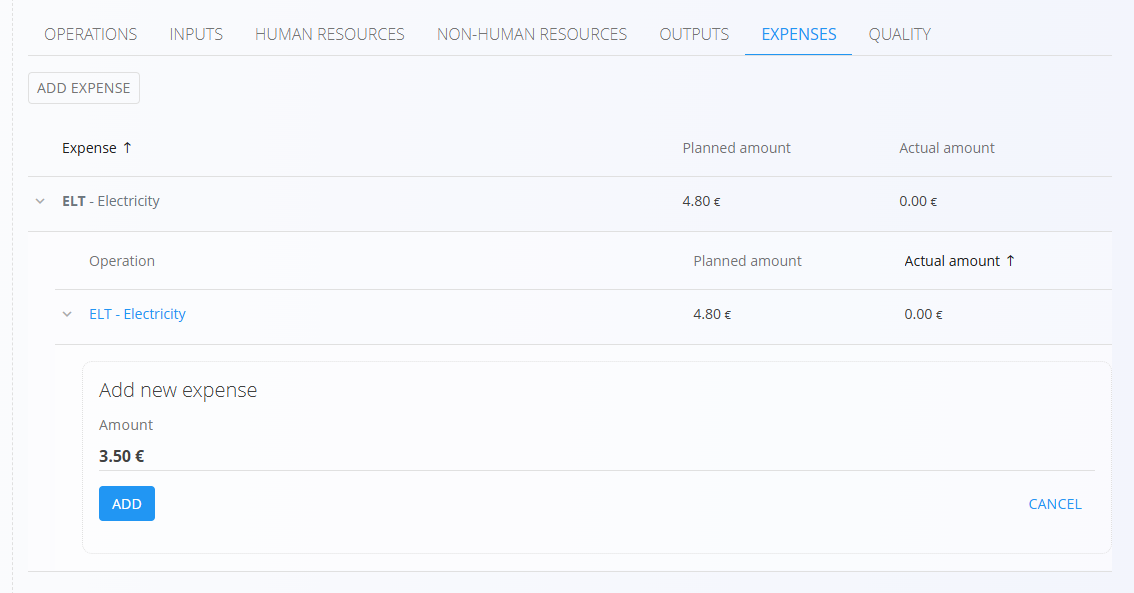
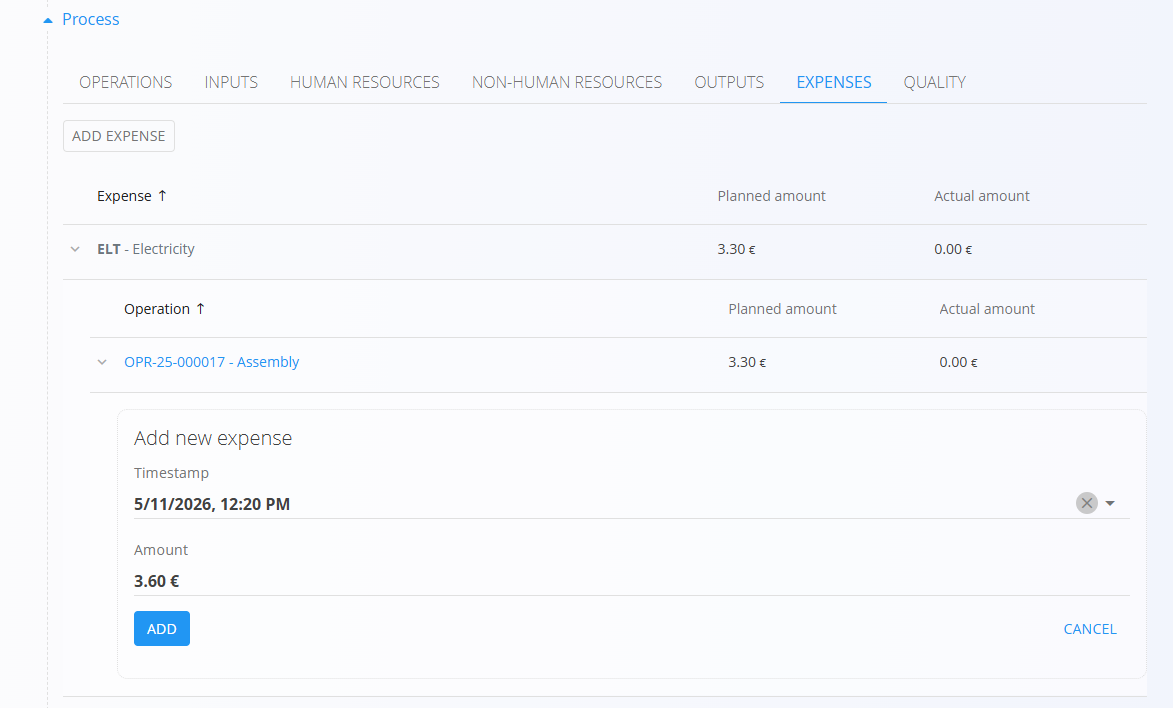
docs: updates to expenses in production orders.

diff --git a/en/Domains/Production/Documents/ProductionOrders.md b/en/Domains/Production/Documents/ProductionOrders.md
@@ -148,7 +148,7 @@ To record the actual expense cost:
 
 1. Click on the arrow next to the expense on the list to open its details.
 1. Click on **Add actual expense**.
-2. Enter the actual cost of the expense.
+2. Enter the actual cost of the expense, date and time.
 3. Click **Add**.
 
 ![Production Orders Process Expenses](../Images/ProductionOrdersProcessExpensesDetail.png "Production order expenses add actual")

diff --git a/sl/Domene/Proizvodnja/Dokumenti/ProizvodniNalogi.md b/sl/Domene/Proizvodnja/Dokumenti/ProizvodniNalogi.md
@@ -147,7 +147,7 @@ Za evidentiranje dejanskega stroška:
 
 1. Kliknite puščico ob strošku na seznamu, da odprete njegove podrobnosti.
 2. Kliknite **Dodaj dejanski strošek**.
-3. Vnesite dejanski strošek.
+3. Vnesite dejanski strošek, datum in čas.
 4. Kliknite **Dodaj**.
 
 ![Production Orders Process Expenses](../Images/ProductionOrdersProcessExpensesDetailSL.png "Production order expenses add actual")
